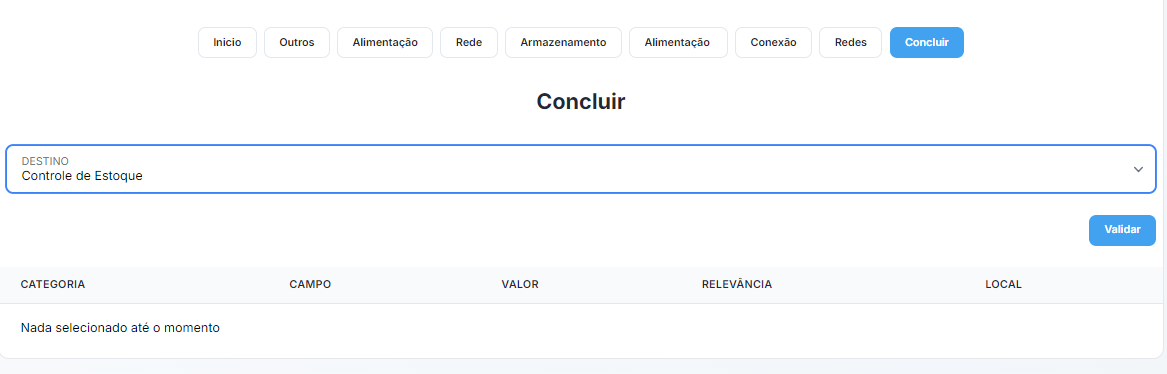
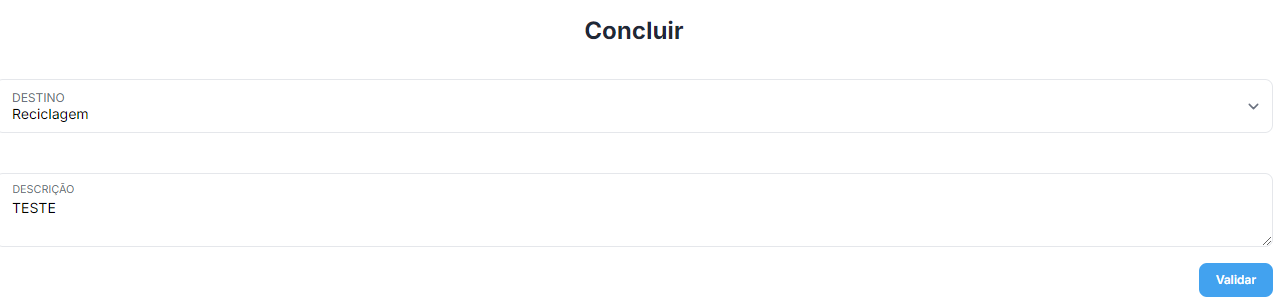
Atualização página teste de funcionalidade

diff --git a/docs/functionality_test/test.md b/docs/functionality_test/test.md
@@ -24,53 +24,85 @@ Após acessar a página, será possível visualizar todos os produtos que estão
 
 - Ter produtos cadastrados
 - Ter especificações dos produtos cadastradas
-- Ter os campos do teste de funcionalide cadastrados
+- Ter os campos do teste de funcionalidade cadastrados
   :::
 
 ## Passo a Passo
 
 Para realizar o teste de funcionalidade de determinado produto siga os passos abaixo:
 
-- Escolha o produto que deseja realizar o teste
-- Clique no botão **`Testar`**
-- A seguinte tela irá aparecer:
-
-![Tela de teste de funcionalidade](/img/images/teste_funcionalidade.png)
+- Escolha o produto que deseja realizar o teste;
+- Clique no botão **`Testar`**.
 
 :::info
-A partir desta tela, você deverá preencher os campos de acordo com as características do produto que está sendo testado.
+Para cada tipo de hardware, o sistema apresentará uma tela com diferentes tipos de campos para testes. Veja abaixo alguns exemplos de quais dados devem ser preenchidos para cada tipo de de hardware.
 :::
 
-Selecione se o produto liga ou não e clique em **`Outros`** para ir para a próxima tela.
+### Computadores
 
-![Tela de teste de funcionalidade](/img/images/outros_teste.png)
+Devem ser preenchidos os campos: início, armazenamento, alimentação, processador, conexões, memória ram, chassi, outros, placa de vídeo, conexão, redes, áudio e bios.
 
-Preencha os campos necessários e clique em **`Alimentação`** para ir para a próxima tela.
+![Tela de teste de funcionalidade](/img/images/computador_teste.png)
 
-![Tela de teste de funcionalidade](/img/images/alimentacao_teste.png)
+### Dock Station
 
-Preencha os campos necessários e clique em **`Rede`** para ir para a próxima tela.
+Devem ser preenchidos os campos: início e conexões.
 
-![Tela de teste de funcionalidade](/img/images/rede_teste.png)
+![Tela de teste de funcionalidade](/img/images/dock_teste.png)
 
-Preencha os campos necessários e clique em **`Armazenamento`** para ir para a próxima tela.
+### Monitores
 
-![Tela de teste de funcionalidade](/img/images/armazenamento_teste.png)
+Devem ser preenchidos os campos: início, outros, tela, alimentação, botões, redes, chassi, áudio e conexão.
 
-Preencha os campos necessários e clique em **`Alimentação`** para ir para a próxima tela.
+![Tela de teste de funcionalidade](/img/images/monitor_teste.png)
 
-![Tela de teste de funcionalidade](/img/images/alimentacao2_teste.png)
+### SSD, HDD, Acess Point
 
-Preencha os campos necessários e clique em **`Conexão`** para ir para a próxima tela.
+Deve ser preenchido apenas o campo início.
 
-![Tela de teste de funcionalidade](/img/images/conexao_teste.png)
+![Tela de teste de funcionalidade](/img/images/ssd_teste.png)
 
-Preencha os campos necessários e clique em **`Redes`** para ir para a próxima tela.
+### Notebooks
 
-![Tela de teste de funcionalidade](/img/images/redes_teste.png)
+Devem ser preenchidos os campos: início, conexões, processador, alimentação, armazenamento, memória ram, conexão, placa de vídeo, tela, teclado, bios, chassi, áudio, redes, moldura de LCD e outros.
 
-Preencha os campos necessários e clique em **`Concluir`** para ir para a próxima tela.
+![Tela de teste de funcionalidade](/img/images/notebook_teste.png)
+
+### Servidores
+
+Devem ser preenchidos os campos: início, alimentação, outros, armazenamento, processador, conexão, redes, memória ram e chassi.
+
+![Tela de teste de funcionalidade](/img/images/servidor_teste.png)
+
+### Switch
+
+Devem ser preenchidos os campos: início, redes, outros, conexão e alimentação.
+
+![Tela de teste de funcionalidade](/img/images/switch_teste.png)
+
+### WorkStation
+
+Devem ser preenchidos os campos: início, armazenamento e memória ram.
+
+![Tela de teste de funcionalidade](/img/images/workstation_teste.png)
+
+:::warning[Atenção!]
+Além dos tipos de hardware mencionados, há outros tipos que também podem ser testados, como microfones, telefones etc., mas estes não foram incluídos na lista de exemplos por possuírem os mesmos campos que outros apresentados acima.
+:::
+
+### Exemplo
+
+Conforme o usuário vai preenchendo as especificações de cada campo no teste, o sistema vai gerando uma lista com o resumo todos os pontos de atenção indicados no teste.
+
+Veja abaixo como ficaria a lista, utilizando um monitor como exemplo:
+
+![Tela de teste de funcionalidade](/img/images/resumo_teste.png)
+
+## Concluir Teste Funcionalidade
+
+- Clique em **`Concluir`**;
+- Defina o destino do tipo de hardware;
+- Se necessário, adicione uma descrição à transação;
+- Clique em **`Validar`** para finalizar o processo.
 
 ![Tela de teste de funcionalidade](/img/images/concluir_testes.png)
-
-Clique em **`Validar`** para terminar o teste de funcionalidade do produto.
